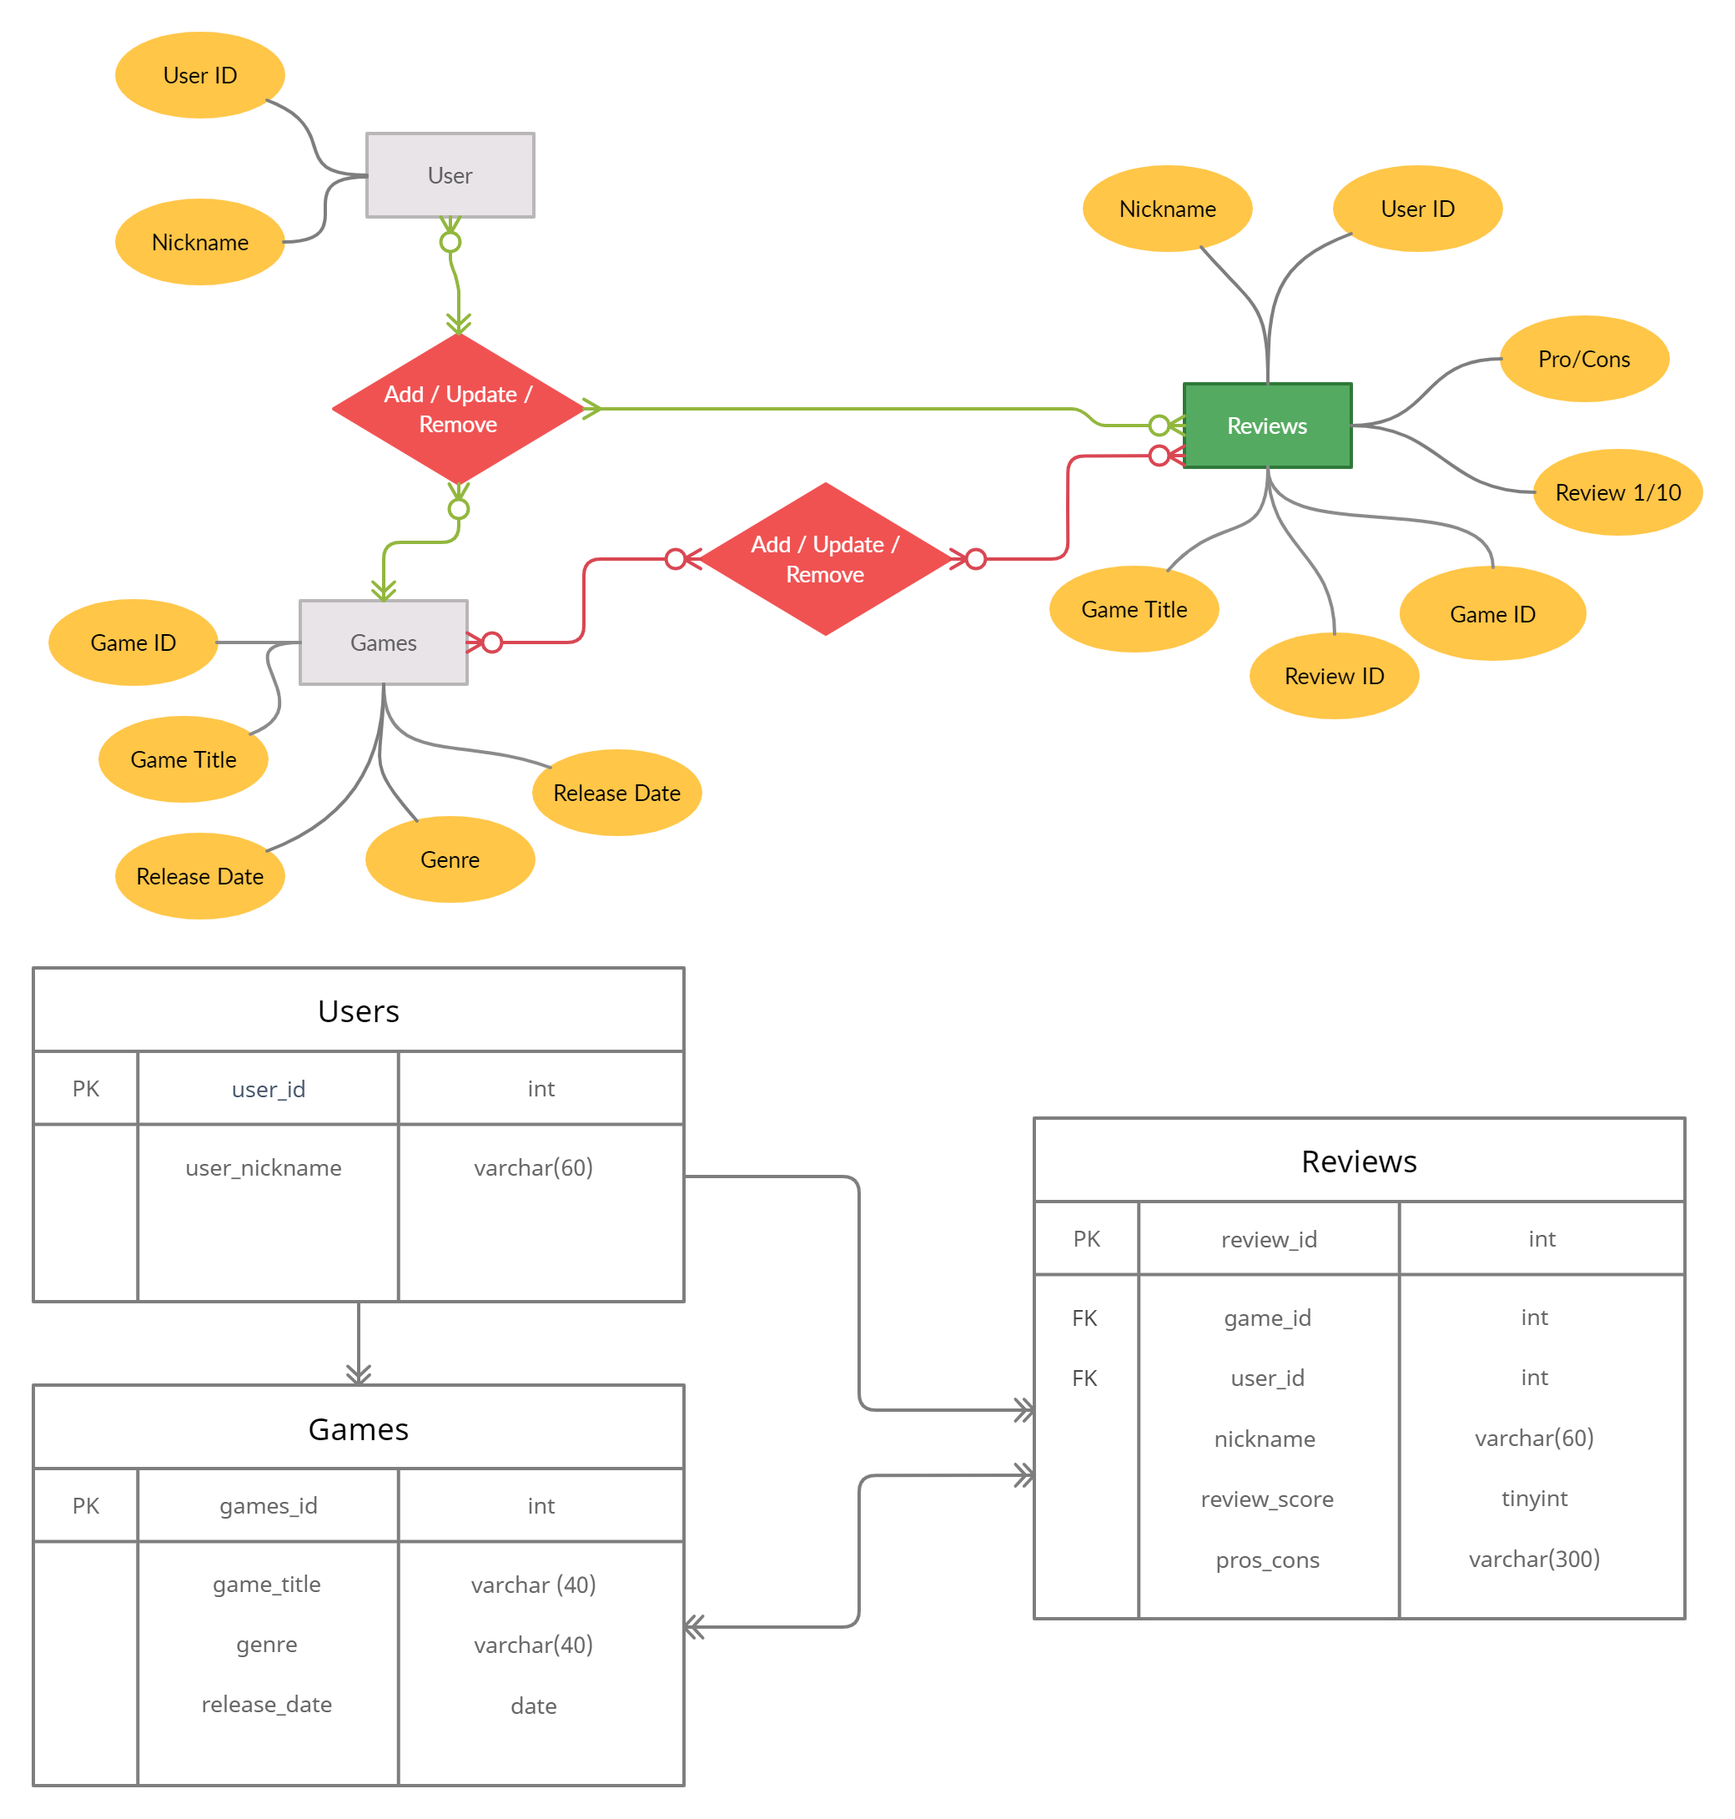
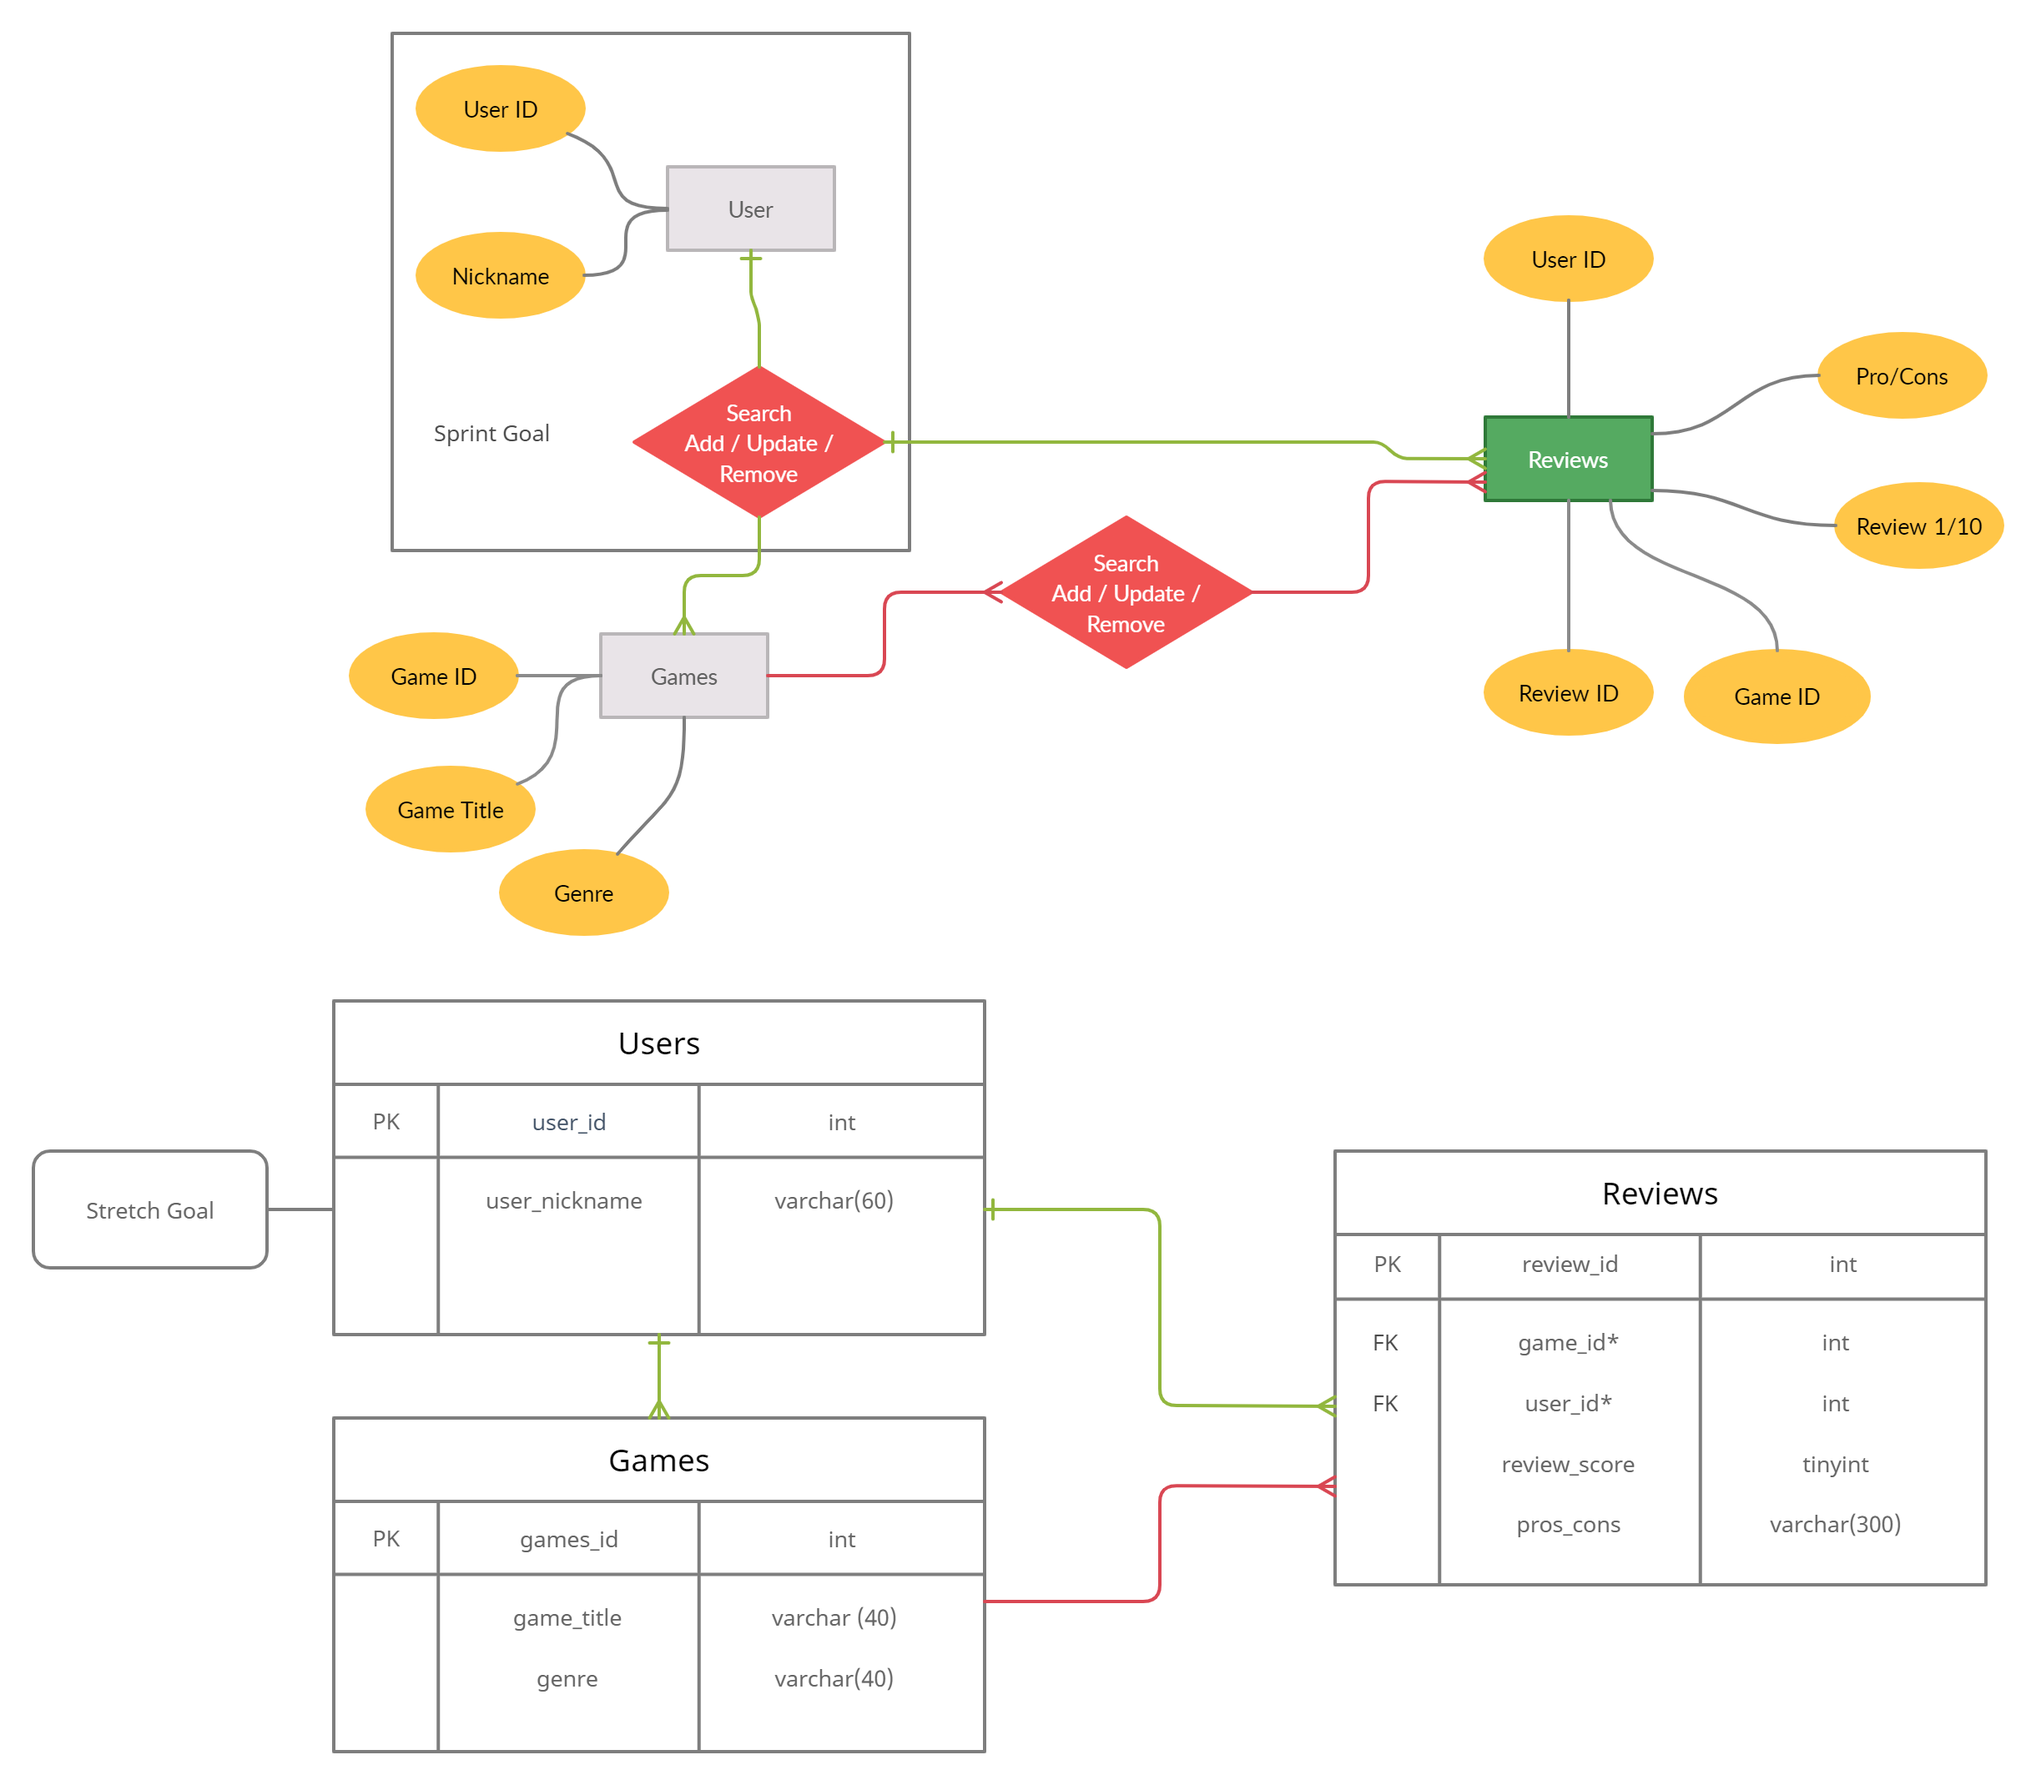
Adding updated files of readme, erd and flask project

diff --git a/flask_project/application/templates/games.html b/flask_project/application/templates/games.html
@@ -1,0 +1,5 @@
+{% extends "main.html" %}
+{% block body %}
+<h1> In this section i want to add Games </h1>
+<p> So that you can see what you want to select </p>
+{% endblock body %}

diff --git a/flask_project/application/templates/main.html b/flask_project/application/templates/main.html
@@ -1,0 +1,3 @@
+<h1>The Games Database</h1>
+{% block body %}
+{% endblock body %}

diff --git a/flask_project/app.py b/flask_project/app.py
@@ -1,0 +1,27 @@
+from flask import Flask, request, render_template
+# from flask_sqlalchemy import SQLAlchemy
+
+app = Flask(__name__)
+app.config['SQLALCHEMY_DATABASE_URI'] = "sqlite:///data.db"
+
+# db = database.name
+
+# db.drop_all()
+@app.route('/')
+
+@app.route('/games', methods=['GET', 'POST'])
+def games():
+    if request.method == 'POST':
+        return 'Add a game here'
+    else:
+        return 'Look for a game?'
+
+@app.route('/reviews', methods=['GET', 'POST'])
+def games():
+    if request.method == 'POST':
+        return 'Add a review here'
+    else:
+        return 'Find the review'
+
+if __name__=='__main__':
+    app.run(debug=True, host=("0.0.0.0"))

diff --git a/README.md b/README.md
@@ -1,17 +1,36 @@
-# gr_project1
-Game Review Project 
+gr_project1
+Game Review Project
 
-In this project, i will set up a database that will hold three tables, one for Games, one for user ID and the other for Reviews. 
 
-In the games table, it will hold a unique id for the game added, then brief information about the game:
-ID, name, genre, release date and age rating
+##Introduction.##
+
+For this project i will be expected to make a Flask Application that will contain at least 2 databases, where i will have to apply C(reate)R(ead)U(pdate)D(elete) methods.
+The project i have chosen to use as my base topic will be around a games review style, being able to use the front end URL to input data to the tables.
+The user should be able to navigate easily through the application, having a search function and a field to read add update or delete data from the database.
+I will also have all the documentation that has been part of the design process, coding and AGILE methodoligies.
+This will include:
+            -A trello board to keep track of progress and goals
+            -A risk assessment to document all the potential threats and issues my project may encounter
+            -An ERD and chen diagram to display the functionality and relationships between my database
+            -SQL relational database for incorporating the usability of my database
+            -Testing documentation, to prove the functionality of my code
+            -A functioning front end flask website
+            -A collection of all the files and folders in a GIT repository with no additional unnecessary files
+
+I will be also keeping any changes or updates in a log, to see how the project varied due to issues or compatability with the project criteria.
+
+__________________________________________________________________________________________________________________________
+
+
+
+In this project, i will set up a database that will hold three tables, one for Games, one for user ID and the other for Reviews.
+
+In the games table, it will hold a unique id for the game added, then brief information about the game: ID, name, genre, release date and age rating
 
 In the user ID, it will have : ID and User Name
 
-In the Review table, there will be an id for the input of review, a space to create a review on the game:
-ID, ID tied to game ID, name, personal rating 1/10, pros' and cons'.
+In the Review table, there will be an id for the input of review, a space to create a review on the game: ID, ID tied to game ID, name, personal rating 1/10, pros' and cons'.
 
 The navigation of the tables will be straight-forward and easily readable on the game which you select.
 
-It will offer you to pick a game, add a game or remove a game. In the reviews table, you will be able to add your own review and see others reviews.
-You will also be able to sort the games in rating order to see what was best to worst/vice versa.
+It will offer you to pick a game, add a game or remove a game. In the reviews table, you will be able to add your own review and see others reviews. You will also be able to sort the games in rating order to see what was best to worst/vice versa.
